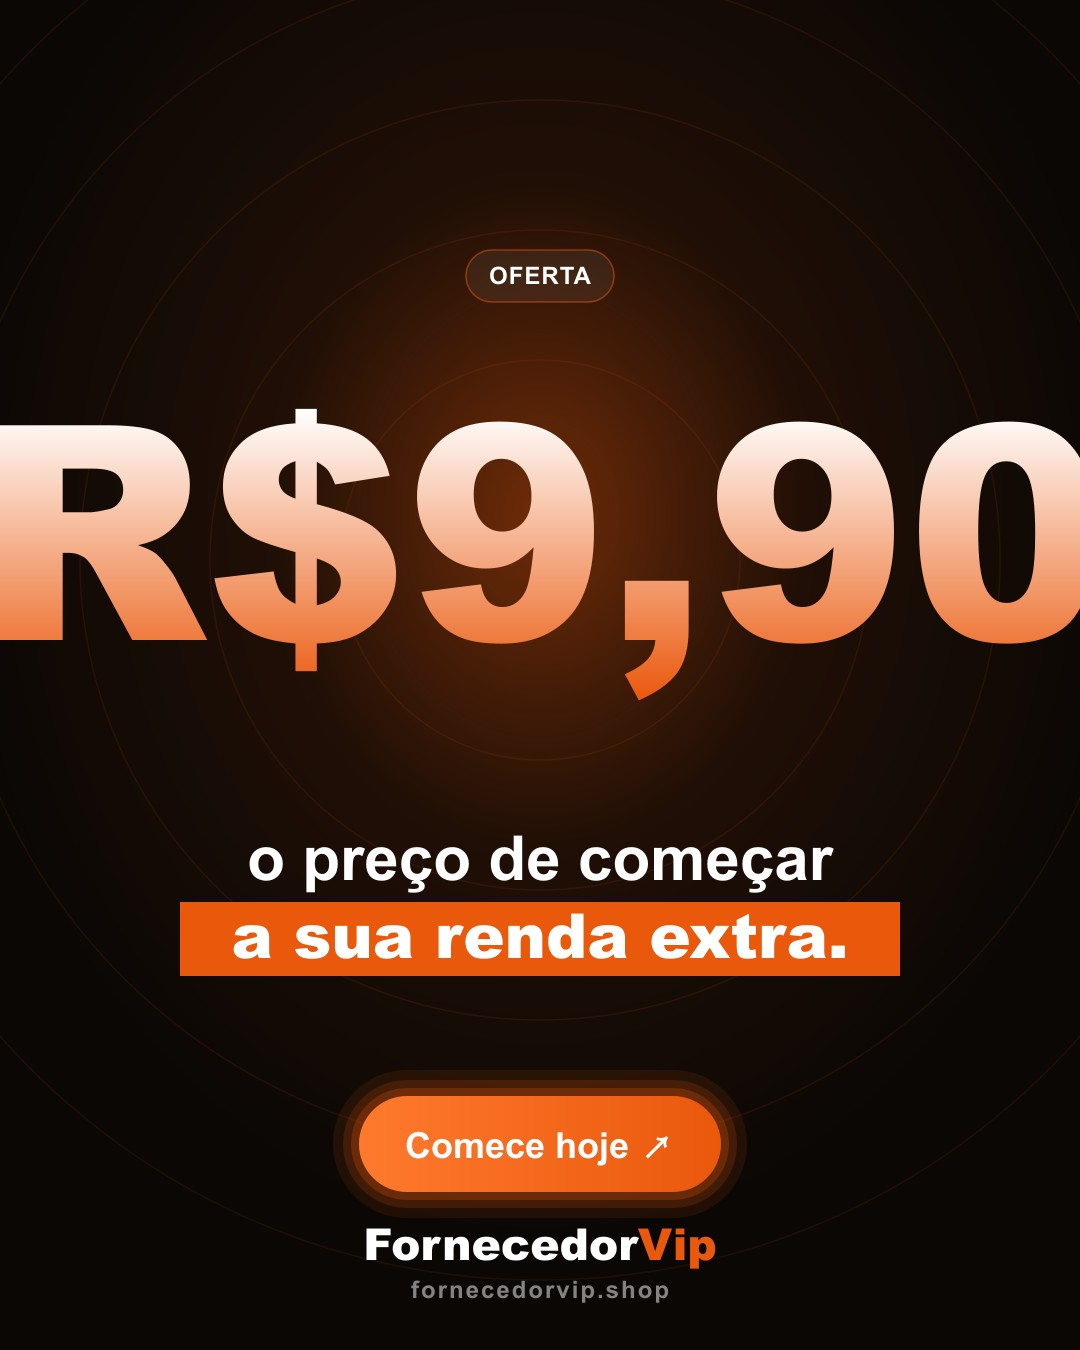
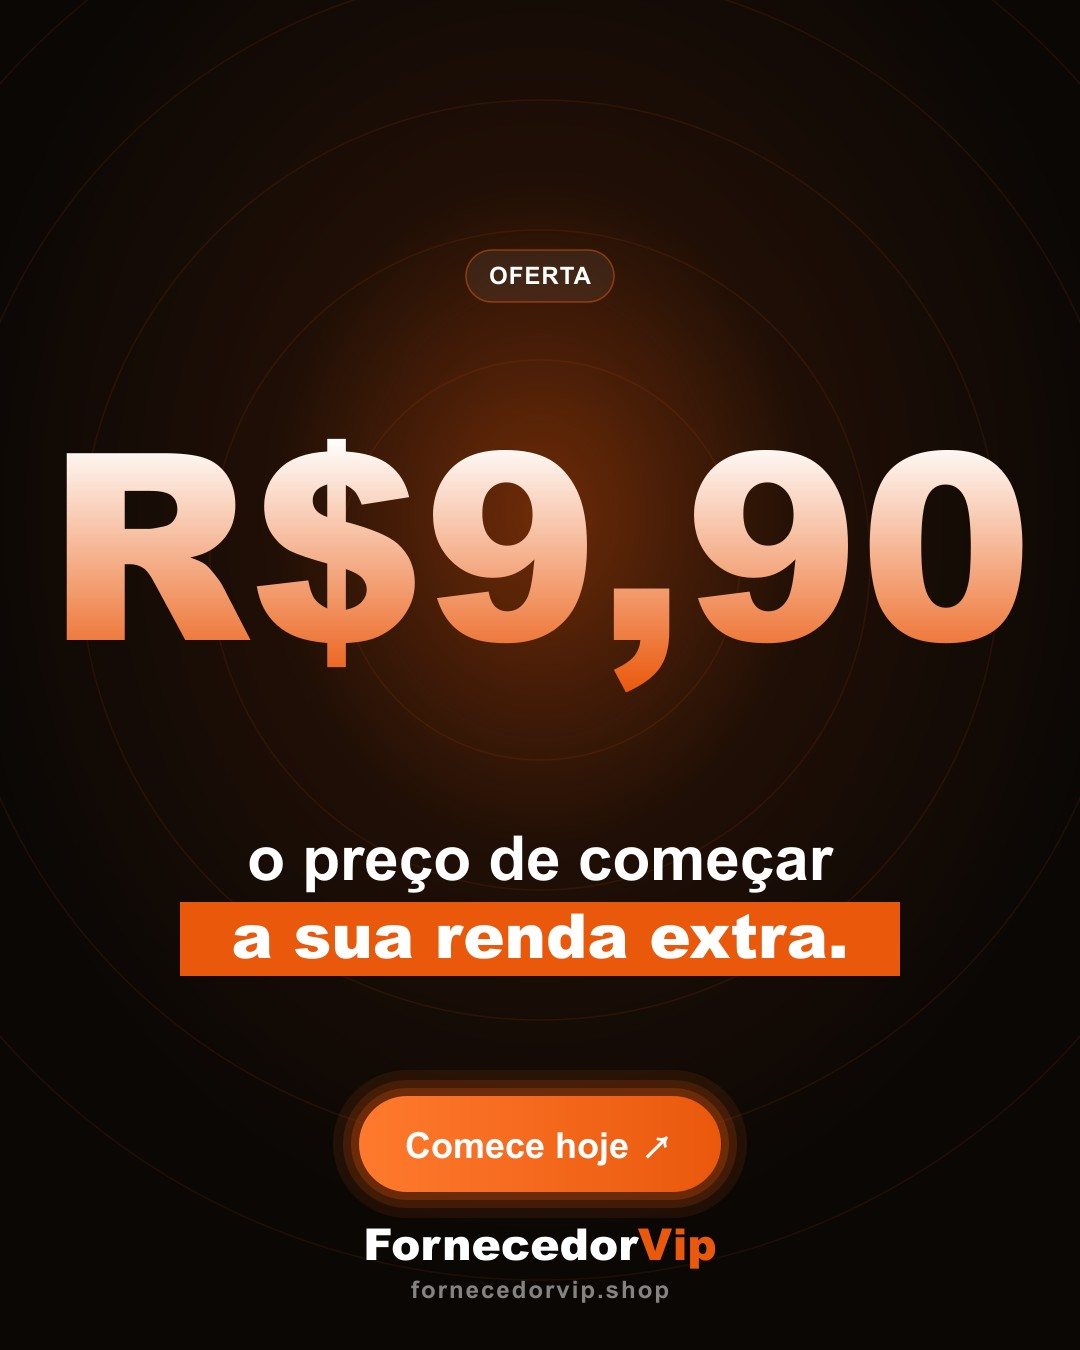
fix: dynamic stat font size so wide numbers (R$9,90) fit the post

Changed region(s): [[0.0, 0.28, 0.55, 0.4978], [0.55, 0.3111, 1.0, 0.5289]]

diff --git a/scripts/make-posts.js b/scripts/make-posts.js
@@ -84,10 +84,12 @@ function postStat({ eyebrow: eb, stat, lines, cta }) {
     return `<text x="${W / 2}" y="${y}" font-family="${F}" font-size="62" font-weight="800" fill="#ffffff" text-anchor="middle">${esc(l.t)}</text>`;
   }).join("");
   const ctaY = startY + titleLines.length * lh + 60;
+  // tamanho do número dinâmico pra nunca estourar a largura (máx ~940px)
+  const statFs = Math.min(300, Math.floor(940 / (stat.length * 0.60)));
   return `<svg xmlns="http://www.w3.org/2000/svg" width="${W}" height="${H}" viewBox="0 0 ${W} ${H}">
     ${backdrop()}
     ${eb ? eyebrow(eb) : ""}
-    <text x="${W / 2}" y="640" font-family="${F}" font-size="300" font-weight="900" fill="url(#num)" text-anchor="middle">${esc(stat)}</text>
+    <text x="${W / 2}" y="640" font-family="${F}" font-size="${statFs}" font-weight="900" fill="url(#num)" text-anchor="middle">${esc(stat)}</text>
     ${tl}
     ${ctaPill(cta, ctaY)}
     ${brand()}
